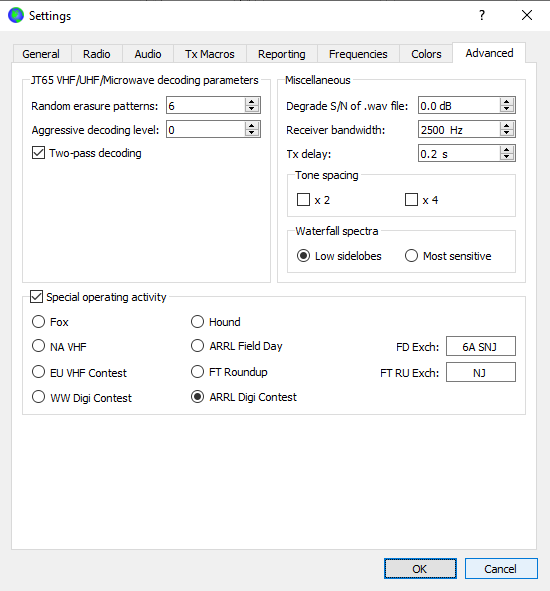
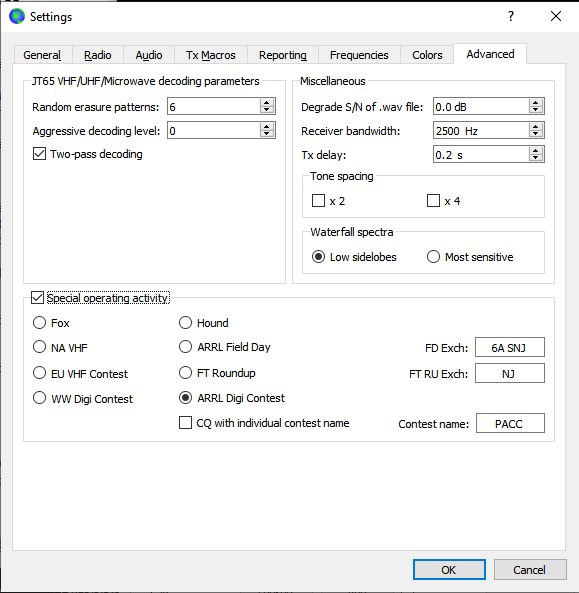
Update the User Guide.

diff --git a/revision_utils.cpp b/revision_utils.cpp
@@ -26,7 +26,7 @@ namespace
 
 QString revision (QString const& scs_rev_string)
 {
-  return "a4b2b4";
+  return "5c1adb";
   QString result;
   auto revision_from_scs = revision_extract_number (scs_rev_string);
 
